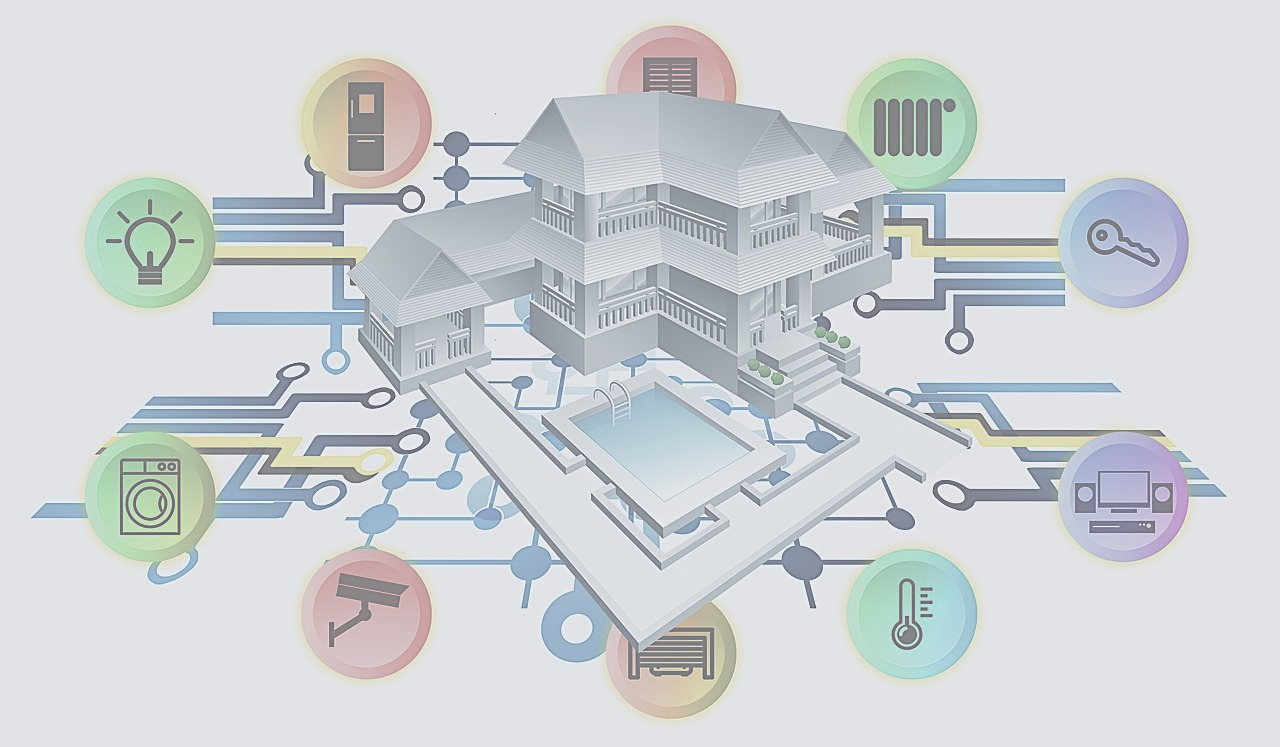
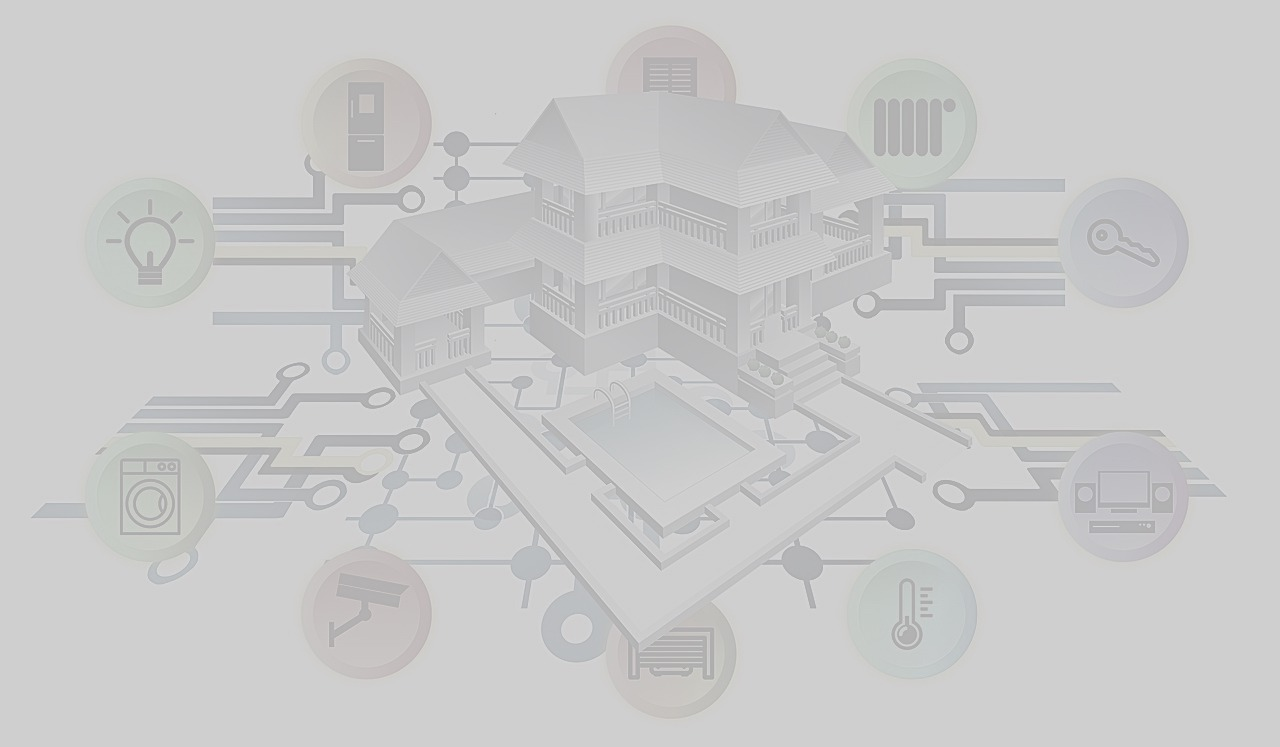
style home page

Changed region(s): [[0.0, 0.0308, 0.9688, 0.9853], [0.3438, 0.3387, 0.375, 0.3695], [0.25, 0.8313, 0.2812, 0.8621]]

diff --git a/Web_ACapp/HomeApp/src/views/HomeView.vue b/Web_ACapp/HomeApp/src/views/HomeView.vue
@@ -3,69 +3,70 @@ import { ref } from 'vue'
 import CalculatorComponent from '../components/CalculatorComponent.vue'
 import { RouterLink } from 'vue-router';
 
-
 </script>
-
 
 <template>
   <body>
-
     <header id="header" class="p-5">
-      <section class="bg-header d-flex justify-content-center  p-5">
-
-        <h1 class=" black">Automate Columbus</h1>
-      </section>
       <div class="container">
-        <nav class="navbar navbar-expand-lg bg-dark navbar-dark">
+        <nav class="navbar navbar-expand-lg bg-dark navbar-dark"><span class=" container navbar-text h1 "
+            style="color: rgb(30, 174, 174);">Automate Columbus</span>
           <div class="container">
-            <a href="#" class="navbar-brand"></a>
-            <ul class="navbar-nav ms-auto">
+            <ul class="navbar-nav ms-auto" style="color: blue;">
               <li nav-item><a class="nav-link scrollto active" href="#hero">Home</a></li>
               <li><a class="nav-link scrollto" href="#guide">Guides</a></li>
               <li><a class="nav-link scrollto" href="#installionCalculator">Installation Calculator</a></li>
             </ul>
           </div>
         </nav>
-
       </div>
-
     </header>
-
-    <main class="p-5 ">
-      <section class="p-5 d-flex justify-content-center">
-        <p> Welcome to Automate Columbus, a source of local home automation guidence and service.</p>
+    <main class=" ">
+      <section class="p-4 d-flex justify-content-center">
+        <div class="container" style="opacity: .9;">
+          <h5 class="p-5 bg-dark" style="color: rgb(236, 209, 241);">
+            Automate Columbus is a hub for home automation insite through comprehensive
+            installation guides and the latest
+            news on smart technology. We also offer community support as well as installation services to the Columbus and Dayton Ohio areas.</h5>
+        </div>
       </section>
       <div class="d-flex justify-content-center p-5">
-        <div class="card" style="width: 18rem;">
-          <img
-            src="https://www.the-sun.com/wp-content/uploads/sites/6/2022/09/LG-RING-DOORBELL-COMP.jpg?w=1280&quality=44"
-            class="card-img-top" alt="...">
-          <div class="card-body">
-            <h5 class="card-title">Video Doorbell</h5>
-            <p class="card-text">Video doorbells have bad picture, amazon needs to make them better.</p>
-            <RouterLink to="../src/components/guides/DoorbellGuide.vue" class="btn btn-primary">Go somewhere
-            </RouterLink>
+        <div class="p-2">
+          <div class="card" style="width: 18rem;">
+            <img
+              src="https://www.the-sun.com/wp-content/uploads/sites/6/2022/09/LG-RING-DOORBELL-COMP.jpg?w=1280&quality=44"
+              class="card-img-top" alt="...">
+            <div class="card-body">
+              <h5 class="card-title">Video Doorbell</h5>
+              <p class="card-text">Video doorbells have bad picture, amazon needs to make them better.</p>
+              <RouterLink to="../src/components/guides/DoorbellGuide.vue" class="btn btn-primary">Go somewhere
+              </RouterLink>
+            </div>
           </div>
         </div>
-        <div class="card" style="width: 18rem;">
-          <img
-            src="https://cdn.idealo.com/folder/Product/201534/5/201534593/s3_produktbild_max/ring-alarm-kit-2nd-gen.jpg"
-            class="card-img-top" alt="...">
-          <div class="card-body">
-            <h5 class="card-title">Card title</h5>
-            <p class="card-text">Some quick example text to build on the card title and make up the bulk of the card's
-              content.</p>
-            <a href="#" class="btn btn-primary">Go somewhere</a>
+        <div class="p-2">
+          <div class="card" style="width: 18rem;">
+            <img
+              src="https://cdn.idealo.com/folder/Product/201534/5/201534593/s3_produktbild_max/ring-alarm-kit-2nd-gen.jpg"
+              class="card-img-top" alt="...">
+            <div class="card-body">
+              <h5 class="card-title">Card title</h5>
+              <p class="card-text">Some quick example text to build on the card title and make up the bulk of the card's
+                content.</p>
+              <a href="#" class="btn btn-primary">Go somewhere</a>
+            </div>
           </div>
         </div>
-        <div class="card" style="width: 18rem;">
-          <img src="https://u-tec.com/cdn/shop/t/57/assets/sence-banner.png?v=175755877485102375081689760851"
-            class="card-img-top" alt="...">
-          <div class="card-body">
-            <h5 class="card-title">Card title</h5>
-            <p class="card-text">Some quick example text to build on the card title and make up the bulk of the card's
-              content.</p>
-            <a href="#" class="btn btn-primary">Go somewhere</a>
+        <div class="p-2">
+          <div class="card" style="width: 18rem;">
+            <img src="https://u-tec.com/cdn/shop/t/57/assets/sence-banner.png?v=175755877485102375081689760851"
+              class="card-img-top" alt="...">
+            <div class="card-body">
+              <h5 class="card-title">Card title</h5>
+              <p class="card-text">Some quick example text to build on the card title and make up the bulk of the card's
+                content.</p>
+              <a href="#" class="btn btn-primary">Go somewhere</a>
+            </div>
           </div>
         </div>
       </div>
@@ -87,8 +88,8 @@ header {
   background-attachment: fixed;
   height: 100%;
   opacity: .9;
-  
-;
+
+  ;
 }
 
 main {
@@ -101,8 +102,9 @@ main {
 
 
 }
-body{
-  
+
+body {
+
 
   background-image: url(src/assets/smartHomeA.jpg);
   background-repeat: no-repeat;
@@ -110,10 +112,7 @@ body{
   background-size: cover;
   background-attachment: fixed;
   height: 100%;
- 
-  
+
+
 }
-
- 
-
 </style>
